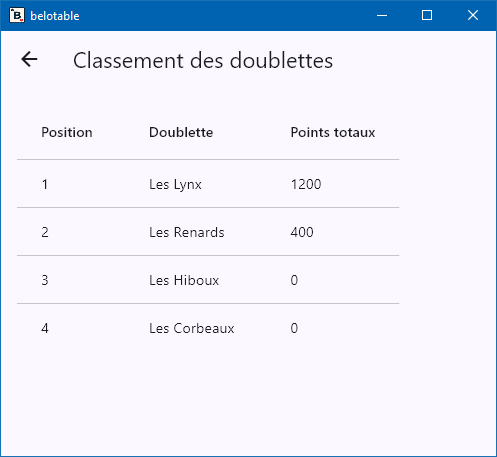
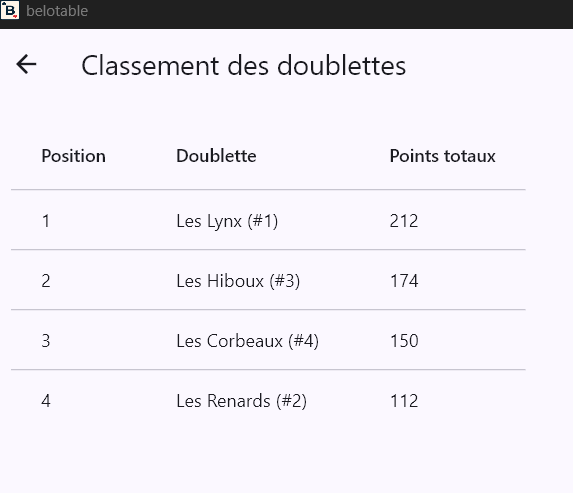
fix: Classement des doublettes avec numéro

diff --git a/belotable/lib/presentation/shared/doublettes/doublettes_ranking_page.dart b/belotable/lib/presentation/shared/doublettes/doublettes_ranking_page.dart
@@ -64,7 +64,12 @@ class DoublettesRankingPage extends ConsumerWidget {
                       ),
                       cells: [
                         DataCell(Text((entry.key + 1).toString())),
-                        DataCell(Text(entry.value.nomEquipe)),
+                        DataCell(
+                          Text(
+                            // ignore: lines_longer_than_80_chars because interpolation
+                            '${entry.value.nomEquipe} (#${entry.value.doubletteId})',
+                          ),
+                        ),
                         DataCell(Text(entry.value.totalPoints.toString())),
                       ],
                     ),
